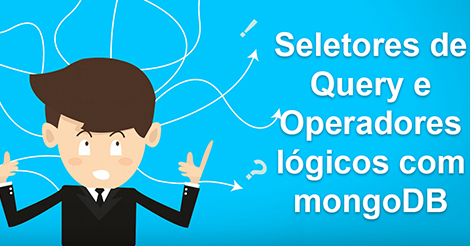
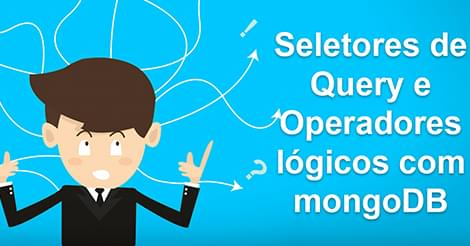
Imagens

diff --git a/Gruntfile.js b/Gruntfile.js
@@ -19,10 +19,10 @@ module.exports = function (grunt) {
           dynamic: {
             options: {
               pngquant: true,
-              optipng: false,
+              optipng: true,
               zopflipng: true,
               advpng: true,
-              jpegRecompress: false,
+              jpegRecompress: true,
               jpegoptim: true,
               mozjpeg: true,
               gifsicle: true,
@@ -153,7 +153,7 @@ module.exports = function (grunt) {
     });
 
     grunt.registerTask("serve", ["shell:jekyllServe"]);
-    grunt.registerTask("default", ["image", "shell:jekyllBuild", "copy", "open", "watch"]);
-    grunt.registerTask("build", ["imagemin", "responsive_images", "shell:jekyllBuild", "copy"]);
+    grunt.registerTask("default", ["tinyimg", "shell:jekyllBuild", "copy", "open", "watch"]);
+    grunt.registerTask("build", ["image", "responsive_images", "shell:jekyllBuild", "copy"]);
     grunt.registerTask("deploy", ["buildcontrol:pages"]);
 };

diff --git a/_posts/2016-01-22-seletores-query-operadores-logicos-mongodb.md b/_posts/2016-01-22-seletores-query-operadores-logicos-mongodb.md
@@ -6,7 +6,7 @@ title: Seletores de Query e Operadores Lógicos com MongoDB
 featimg: 2.jpg
 tags: [MongoDB]
 image:
-  teaser: "media/compressed/posts/thumbs/2015-08-01.jpg"
+  teaser: "media/compressed/posts/thumbs/2015-08-01.png"
 ---
 
 Continuaremos a série de artigos sobre mongoDB com a exploração de seletores de query e operadores lógicos. Para isto, utilizaremos [estes dados][dados-import] que encontrei no Github, que podem ser importados utilizando o comando **mongoimport**. Você pode relembrar como utilizá-lo no link onde explico [como importar documentos utilizando o MongoDB][link-post-importar-documentos].

diff --git a/_posts/2016-01-15-primeiras-consultas-com-mongodb.md b/_posts/2016-01-15-primeiras-consultas-com-mongodb.md
@@ -5,7 +5,7 @@ layout: article
 title: Primeiras consultas com MongoDB
 tags: [Consultas, MongoDB, Robomongo]
 image:
-  teaser: "media/compressed/posts/thumbs/2015-07-21.jpg"
+  teaser: "media/compressed/posts/thumbs/2015-07-21.png"
 ---
 
 Hoje veremos como efetuar consultas com o MongoDB. Para isto, utilizaremos a database Northwind importada no artigo anterior onde aprendemos [como importar documentos para o MongoDB]({{ site.baseurl | replace: '//', '/' }}/mongodb/como-importar-documentos-para-o-mongodb).

diff --git a/_posts/2016-01-08-como-importar-documentos-para-o-mongodb.md b/_posts/2016-01-08-como-importar-documentos-para-o-mongodb.md
@@ -5,7 +5,7 @@ layout: article
 title: Como Importar Documentos para o MongoDB
 tags: [MongoDB]
 image:
-  teaser: "media/compressed/posts/thumbs/2015-07-12.jpg"
+  teaser: "media/compressed/posts/thumbs/2015-07-12.png"
 ---
 
 Hoje veremos como é simples importar documentos para o MongoDB. Para isto, encontrei neste [GitHub](https://github.com/tmcnab/northwind-mongo), um conjunto de arquivos com dados extraídos do famoso database Northwind da Microsoft.

diff --git a/_posts/2016-01-01-criando-um-servico-windows-para-o-mongodb.md b/_posts/2016-01-01-criando-um-servico-windows-para-o-mongodb.md
@@ -5,7 +5,7 @@ layout: article
 title: Criando um Serviço Windows para o MongoDB
 tags: [MongoDB, Serviço, Windows]
 image:
-  teaser: "media/compressed/posts/thumbs/2015-07-04.jpg"
+  teaser: "media/compressed/posts/thumbs/2015-07-04.png"
 ---
 
 Podemos economizar bastante tempo ao rodar o MongoDB localmente, se tivermos um serviço do Windows dedicado exclusivamente à ele. Neste post, veremos como criar este serviço de forma simples.

diff --git a/_posts/2016-01-29-ordenando-e-limitando-documentos-com-mongodb.md b/_posts/2016-01-29-ordenando-e-limitando-documentos-com-mongodb.md
@@ -5,7 +5,7 @@ layout: article
 title: Ordenando e limitando documentos com MongoDB
 tags: [Consultas, MongoDB]
 image:
-  teaser: "media/compressed/posts/thumbs/2015-08-17.jpg"
+  teaser: "media/compressed/posts/thumbs/2015-08-17.png"
 ---
 
 Neste artigo, utilizaremos os métodos de Sort e Limit do MongoDB.
